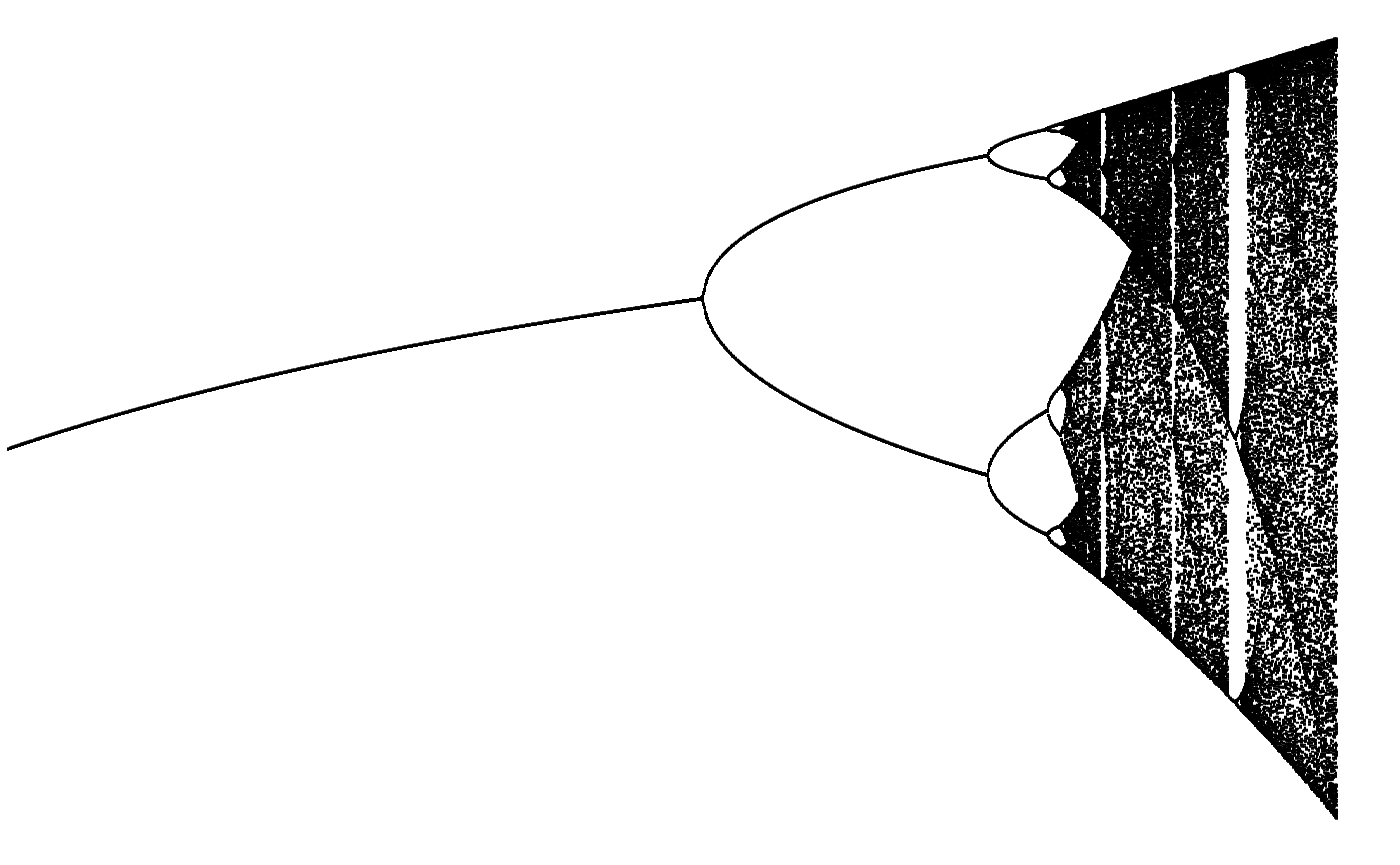
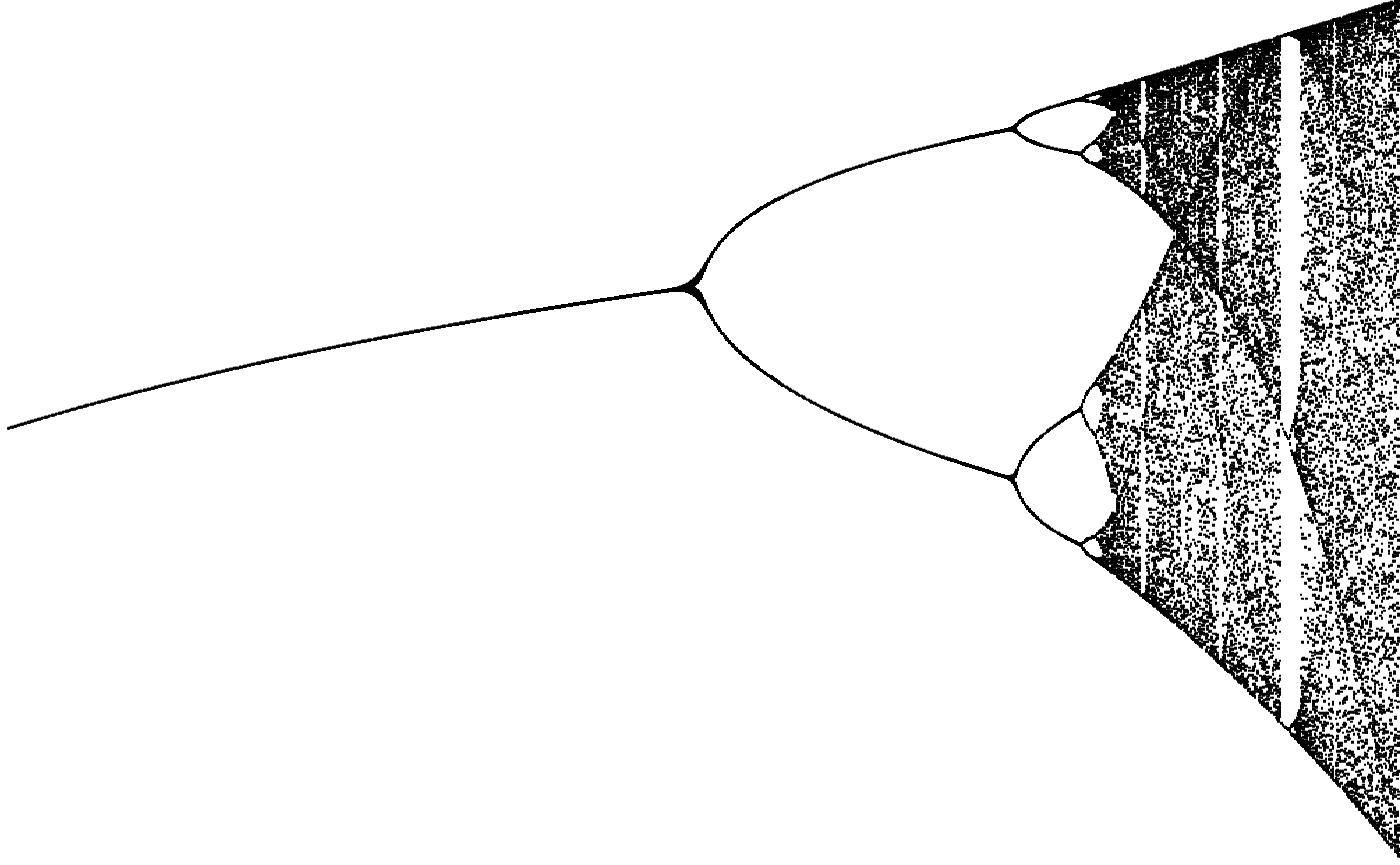
Updated package site.

diff --git a/docs/LICENSE-text.html b/docs/LICENSE-text.html
@@ -6,7 +6,7 @@
 <meta http-equiv="X-UA-Compatible" content="IE=edge">
 <meta name="viewport" content="width=device-width, initial-scale=1.0">
 
-<title>plot.logmap — plot.logmap • chaos</title>
+<title>License • chaos</title>
 
 <!-- jquery -->
 <script src="https://code.jquery.com/jquery-3.1.0.min.js" integrity="sha384-nrOSfDHtoPMzJHjVTdCopGqIqeYETSXhZDFyniQ8ZHcVy08QesyHcnOUpMpqnmWq" crossorigin="anonymous"></script>
@@ -22,13 +22,10 @@
 <script src="https://cdnjs.cloudflare.com/ajax/libs/clipboard.js/1.7.1/clipboard.min.js" integrity="sha384-cV+rhyOuRHc9Ub/91rihWcGmMmCXDeksTtCihMupQHSsi8GIIRDG0ThDc3HGQFJ3" crossorigin="anonymous"></script>
 
 <!-- pkgdown -->
-<link href="../pkgdown.css" rel="stylesheet">
-<script src="../jquery.sticky-kit.min.js"></script>
-<script src="../pkgdown.js"></script>
-<meta property="og:title" content="plot.logmap — plot.logmap" />
-
-<meta property="og:description" content="Plot a logistic map object." />
-<meta name="twitter:card" content="summary" />
+<link href="pkgdown.css" rel="stylesheet">
+<script src="jquery.sticky-kit.min.js"></script>
+<script src="pkgdown.js"></script>
+<meta property="og:title" content="License" />
 
 
 <!-- mathjax -->
@@ -45,7 +42,7 @@
   </head>
 
   <body>
-    <div class="container template-reference-topic">
+    <div class="container template-title-body">
       <header>
       <div class="navbar navbar-default navbar-fixed-top" role="navigation">
   <div class="container">
@@ -56,7 +53,7 @@
         <span class="icon-bar"></span>
       </button>
       <span class="navbar-brand">
-        <a class="navbar-link" href="../index.html">chaos</a>
+        <a class="navbar-link" href="index.html">chaos</a>
         <span class="label label-default" data-toggle="tooltip" data-placement="bottom" title="Released package">0.1.0</span>
       </span>
     </div>
@@ -64,13 +61,13 @@
     <div id="navbar" class="navbar-collapse collapse">
       <ul class="nav navbar-nav">
         <li>
-  <a href="../index.html">
+  <a href="index.html">
     <span class="fa fa-home fa-lg"></span>
      
   </a>
 </li>
 <li>
-  <a href="../reference/index.html">Reference</a>
+  <a href="reference/index.html">Reference</a>
 </li>
       </ul>
       
@@ -86,55 +83,19 @@
       </header>
 
 <div class="row">
-  <div class="col-md-9 contents">
+  <div class="contents col-md-9">
     <div class="page-header">
-    <h1>plot.logmap</h1>
-    
-    <div class="hidden name"><code>plot.logmap.Rd</code></div>
+      <h1>License</h1>
     </div>
 
-    
-    <p>Plot a logistic map object.</p>
-    
-
-    <pre class="usage"><span class='co'># S3 method for logmap</span>
-<span class='fu'>plot</span>(<span class='no'>x</span>, <span class='no'>...</span>, <span class='kw'>size</span> <span class='kw'>=</span> <span class='fl'>1</span>, <span class='kw'>color</span> <span class='kw'>=</span> <span class='st'>"black"</span>, <span class='kw'>xlim</span> <span class='kw'>=</span> <span class='fu'>c</span>(<span class='fl'>0</span>, <span class='fl'>4</span>))</pre>
-    
-    <h2 class="hasAnchor" id="arguments"><a class="anchor" href="#arguments"></a>Arguments</h2>
-    <table class="ref-arguments">
-    <colgroup><col class="name" /><col class="desc" /></colgroup>
-    <tr>
-      <th>x</th>
-      <td><p>logmap object.</p></td>
-    </tr>
-    <tr>
-      <th>...</th>
-      <td><p>ignored.</p></td>
-    </tr>
-    <tr>
-      <th>size</th>
-      <td><p>point size.</p></td>
-    </tr>
-    <tr>
-      <th>color</th>
-      <td><p>point color.</p></td>
-    </tr>
-    <tr>
-      <th>xlim</th>
-      <td><p>limits for x-axis.</p></td>
-    </tr>
-    </table>
-    
+<pre>YEAR: 2018
+COPYRIGHT HOLDER: Diego Diez
+</pre>
 
   </div>
-  <div class="col-md-3 hidden-xs hidden-sm" id="sidebar">
-    <h2>Contents</h2>
-    <ul class="nav nav-pills nav-stacked">
-      <li><a href="#arguments">Arguments</a></li>
-                </ul>
 
-  </div>
 </div>
+
 
       <footer>
       <div class="copyright">

diff --git a/docs/reference/logmap.html b/docs/reference/logmap.html
@@ -6,7 +6,7 @@
 <meta http-equiv="X-UA-Compatible" content="IE=edge">
 <meta name="viewport" content="width=device-width, initial-scale=1.0">
 
-<title>plot.logmap — plot.logmap • chaos</title>
+<title>logmap — logmap • chaos</title>
 
 <!-- jquery -->
 <script src="https://code.jquery.com/jquery-3.1.0.min.js" integrity="sha384-nrOSfDHtoPMzJHjVTdCopGqIqeYETSXhZDFyniQ8ZHcVy08QesyHcnOUpMpqnmWq" crossorigin="anonymous"></script>
@@ -25,9 +25,9 @@
 <link href="../pkgdown.css" rel="stylesheet">
 <script src="../jquery.sticky-kit.min.js"></script>
 <script src="../pkgdown.js"></script>
-<meta property="og:title" content="plot.logmap — plot.logmap" />
+<meta property="og:title" content="logmap — logmap" />
 
-<meta property="og:description" content="Plot a logistic map object." />
+<meta property="og:description" content="logmap" />
 <meta name="twitter:card" content="summary" />
 
 
@@ -88,40 +88,35 @@
 <div class="row">
   <div class="col-md-9 contents">
     <div class="page-header">
-    <h1>plot.logmap</h1>
+    <h1>logmap</h1>
     
-    <div class="hidden name"><code>plot.logmap.Rd</code></div>
+    <div class="hidden name"><code>logmap.Rd</code></div>
     </div>
 
     
-    <p>Plot a logistic map object.</p>
+    <p>logmap</p>
     
 
-    <pre class="usage"><span class='co'># S3 method for logmap</span>
-<span class='fu'>plot</span>(<span class='no'>x</span>, <span class='no'>...</span>, <span class='kw'>size</span> <span class='kw'>=</span> <span class='fl'>1</span>, <span class='kw'>color</span> <span class='kw'>=</span> <span class='st'>"black"</span>, <span class='kw'>xlim</span> <span class='kw'>=</span> <span class='fu'>c</span>(<span class='fl'>0</span>, <span class='fl'>4</span>))</pre>
+    <pre class="usage"><span class='fu'>logmap</span>(<span class='kw'>r0</span> <span class='kw'>=</span> <span class='fl'>0</span>, <span class='kw'>r1</span> <span class='kw'>=</span> <span class='fl'>4</span>, <span class='kw'>length.out</span> <span class='kw'>=</span> <span class='fl'>1000</span>, <span class='kw'>maxit</span> <span class='kw'>=</span> <span class='fl'>100</span>)</pre>
     
     <h2 class="hasAnchor" id="arguments"><a class="anchor" href="#arguments"></a>Arguments</h2>
     <table class="ref-arguments">
     <colgroup><col class="name" /><col class="desc" /></colgroup>
     <tr>
-      <th>x</th>
-      <td><p>logmap object.</p></td>
+      <th>r0</th>
+      <td><p>initial value for the r parameter.</p></td>
     </tr>
     <tr>
-      <th>...</th>
-      <td><p>ignored.</p></td>
+      <th>r1</th>
+      <td><p>final value for the r parameter.</p></td>
     </tr>
     <tr>
-      <th>size</th>
-      <td><p>point size.</p></td>
+      <th>length.out</th>
+      <td><p>increment value for the r parameter.</p></td>
     </tr>
     <tr>
-      <th>color</th>
-      <td><p>point color.</p></td>
-    </tr>
-    <tr>
-      <th>xlim</th>
-      <td><p>limits for x-axis.</p></td>
+      <th>maxit</th>
+      <td><p>maximum number of iterations returned per r value.</p></td>
     </tr>
     </table>
     

diff --git a/docs/index.html b/docs/index.html
@@ -71,10 +71,10 @@
 <div id="usage" class="section level2">
 <h2 class="hasAnchor">
 <a href="#usage" class="anchor"></a>Usage</h2>
-<div class="sourceCode" id="cb2"><pre class="sourceCode r"><code class="sourceCode r"><a class="sourceLine" id="cb2-1" data-line-number="1"><span class="kw">library</span>(chaos)</a></code></pre></div>
-<pre><code>## Loading required package: ggplot2</code></pre>
-<div class="sourceCode" id="cb4"><pre class="sourceCode r"><code class="sourceCode r"><a class="sourceLine" id="cb4-1" data-line-number="1">x &lt;-<span class="st"> </span><span class="kw"><a href="reference/logistic_map.html">logistic_map</a></span>(<span class="dt">rstep =</span> <span class="fl">1e-3</span>)</a>
-<a class="sourceLine" id="cb4-2" data-line-number="2"><span class="kw">plot</span>(x, <span class="dt">xlim =</span> <span class="kw">c</span>(<span class="dv">2</span>, <span class="dv">4</span>)) <span class="op">+</span><span class="st"> </span><span class="kw">theme_void</span>()</a></code></pre></div>
+<div class="sourceCode" id="cb2"><pre class="sourceCode r"><code class="sourceCode r"><a class="sourceLine" id="cb2-1" data-line-number="1"><span class="kw">library</span>(chaos)</a>
+<a class="sourceLine" id="cb2-2" data-line-number="2"><span class="kw">library</span>(ggplot2)</a>
+<a class="sourceLine" id="cb2-3" data-line-number="3">x &lt;-<span class="st"> </span><span class="kw"><a href="reference/logmap.html">logmap</a></span>(<span class="dv">2</span>, <span class="dv">4</span>)</a>
+<a class="sourceLine" id="cb2-4" data-line-number="4"><span class="kw">plot</span>(x) <span class="op">+</span><span class="st"> </span><span class="kw"><a href="http://www.rdocumentation.org/packages/ggplot2/topics/ggtheme">theme_void</a></span>()</a></code></pre></div>
 <p><img src="index_files/figure-html/logmap-1.png" width="700"></p>
 </div>
   </div>
@@ -90,7 +90,9 @@
 <div class="license">
 <h2>License</h2>
 <ul class="list-unstyled">
-<li><a href="https://opensource.org/licenses/mit-license.php">MIT</a></li>
+<li>
+<a href="https://opensource.org/licenses/mit-license.php">MIT</a> + file <a href="LICENSE-text.html">LICENSE</a>
+</li>
 </ul>
 </div>
 <div class="developers">

diff --git a/docs/reference/index.html b/docs/reference/index.html
@@ -111,15 +111,9 @@
       </tr><tr>
         <!--  -->
         <td>
-          <p><code><a href="comp_grow.html">comp_grow()</a></code> </p>
+          <p><code><a href="logmap.html">logmap()</a></code> </p>
         </td>
-        <td><p>comp_grow</p></td>
-      </tr><tr>
-        <!--  -->
-        <td>
-          <p><code><a href="logistic_map.html">logistic_map()</a></code> </p>
-        </td>
-        <td><p>logistic_map</p></td>
+        <td><p>logmap</p></td>
       </tr><tr>
         <!--  -->
         <td>
